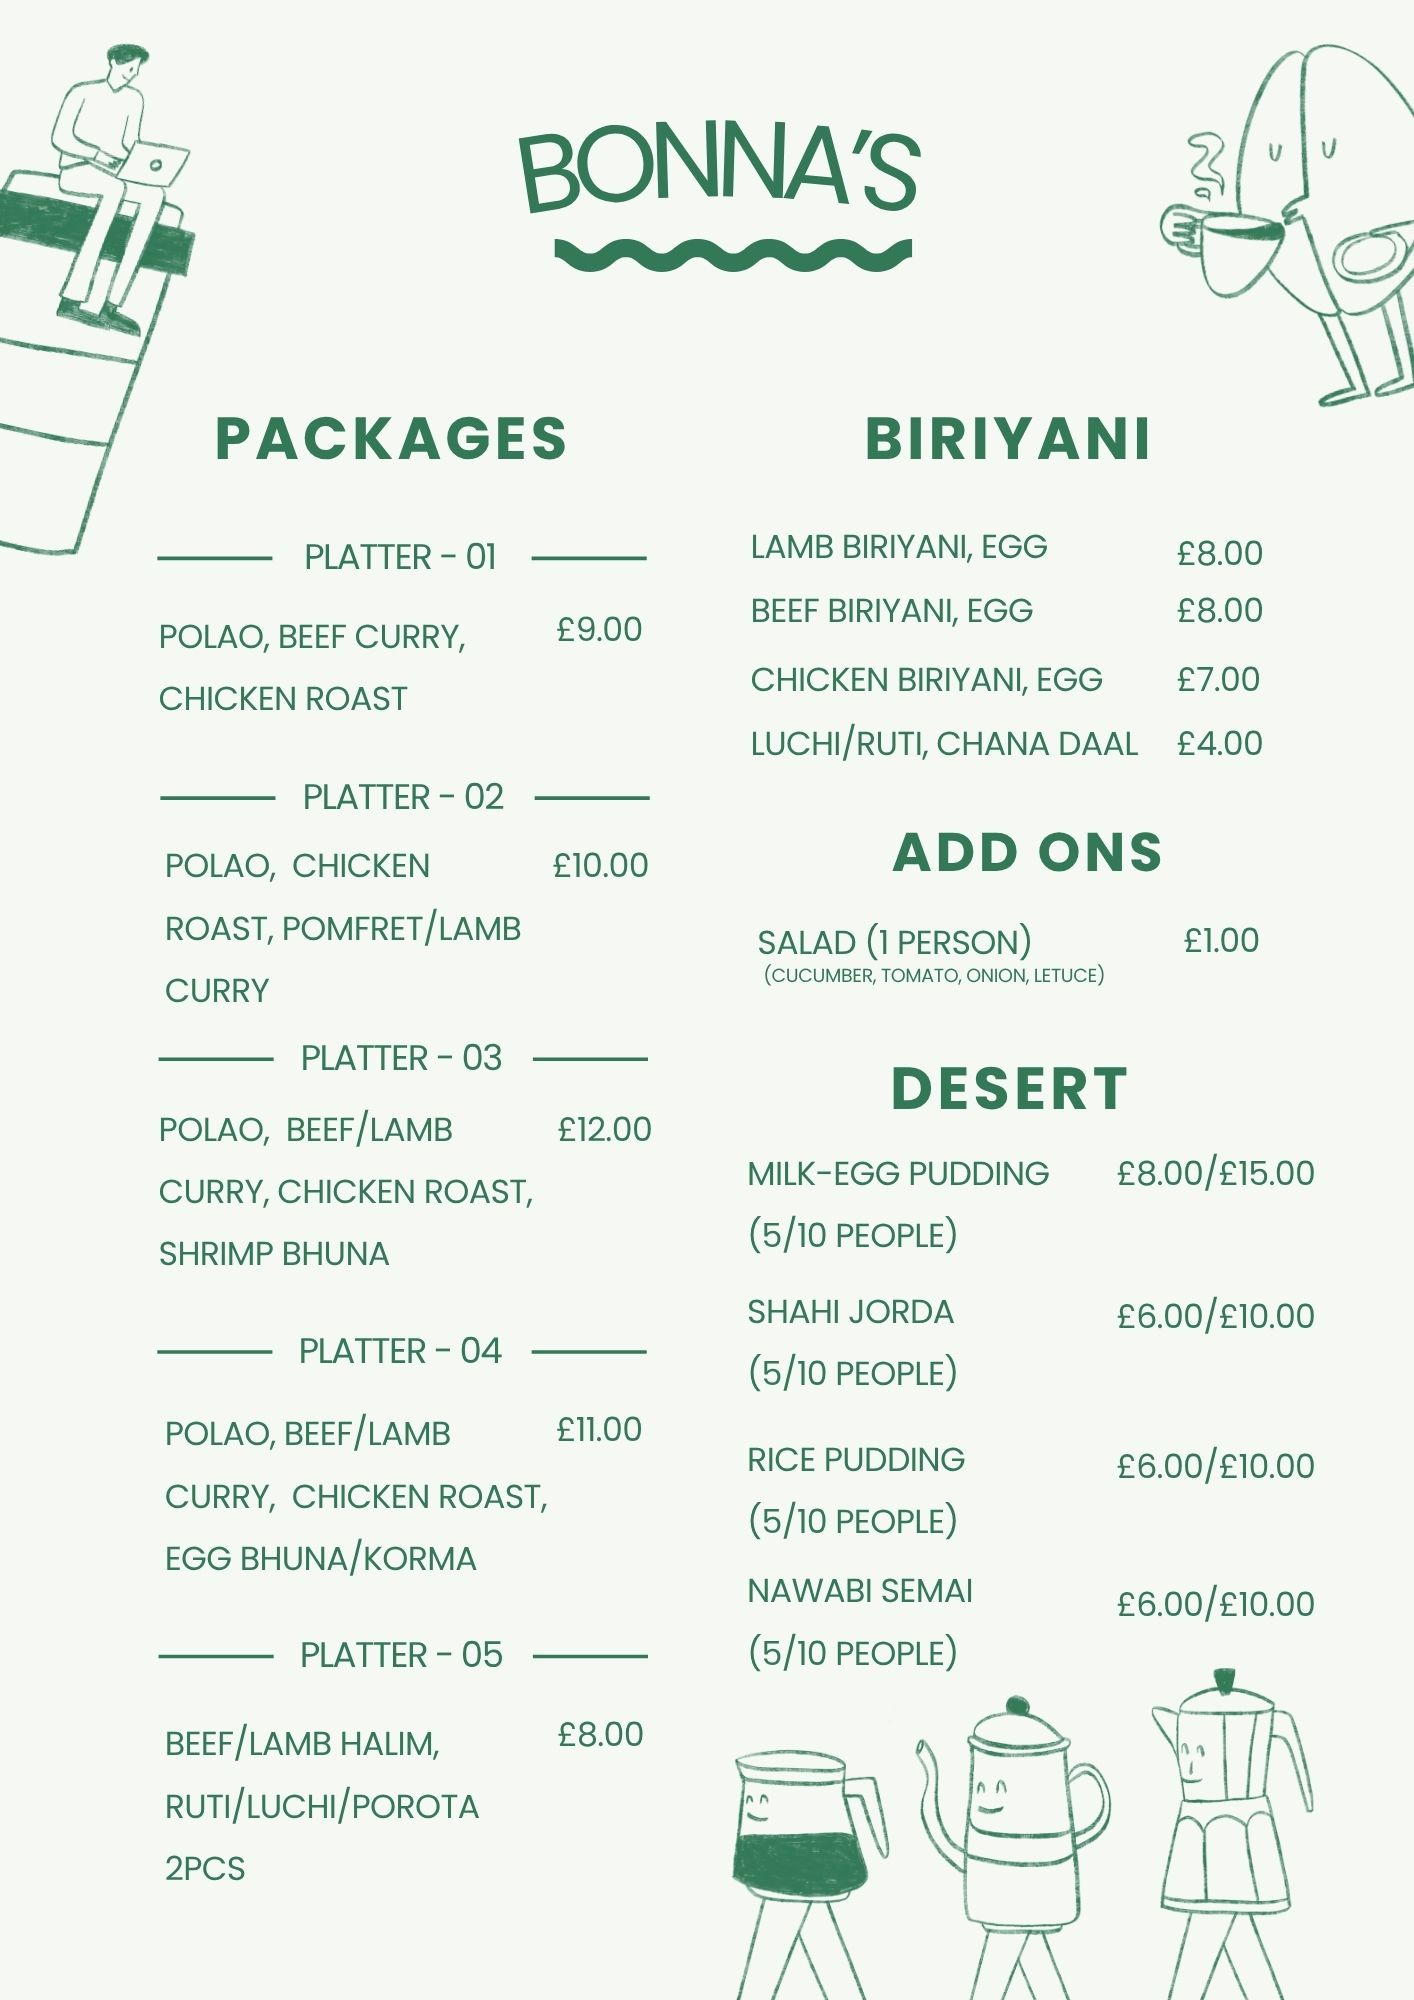
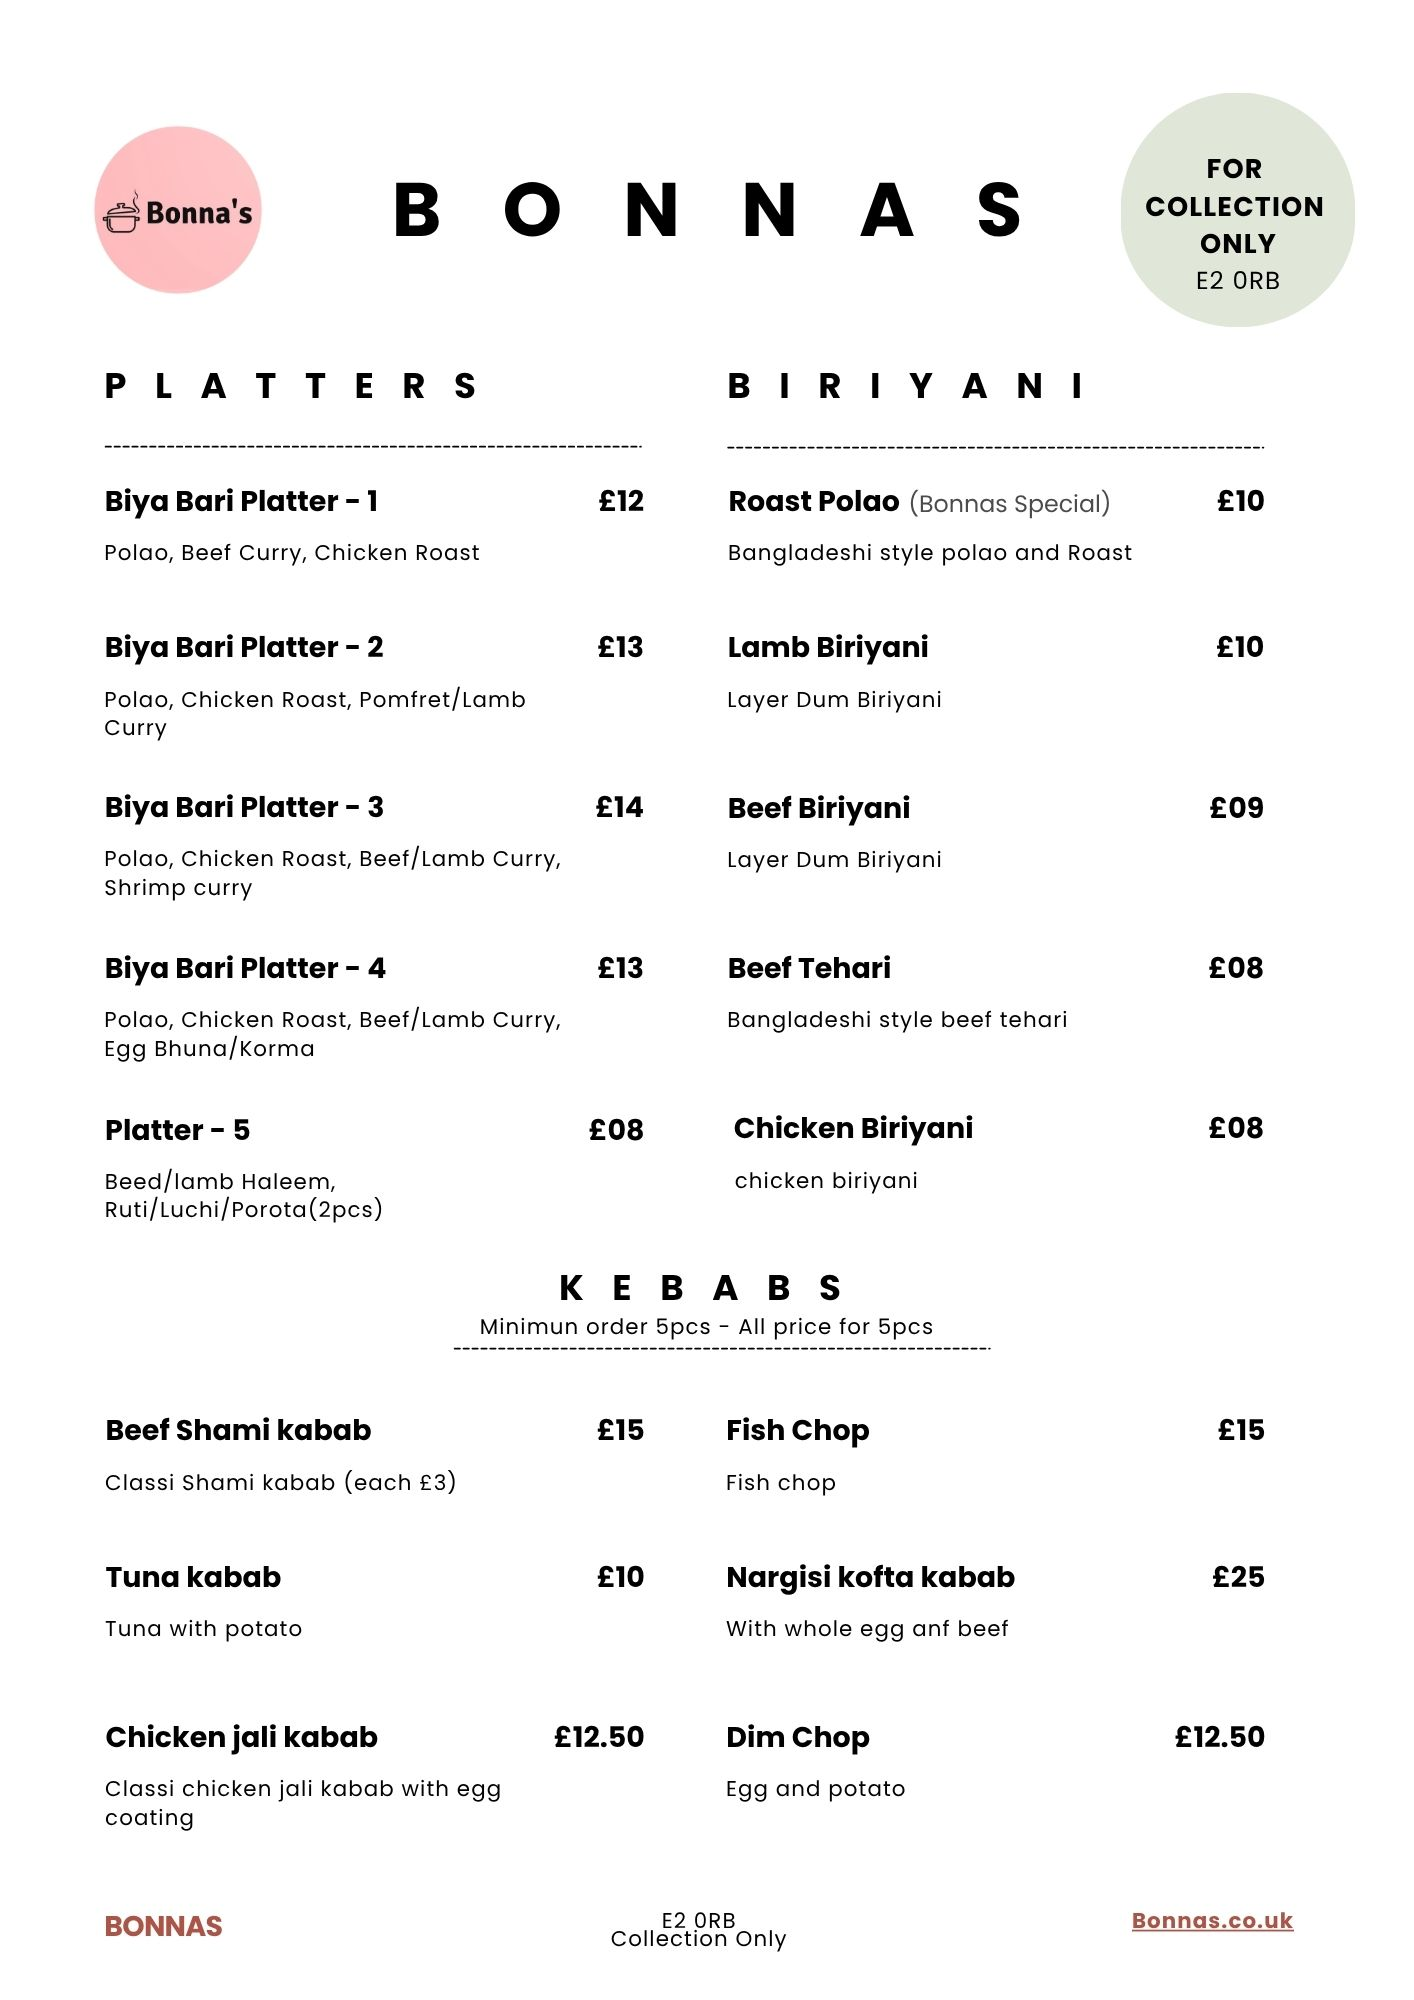
menu changed

diff --git a/src/components/menu.jsx b/src/components/menu.jsx
@@ -98,8 +98,7 @@ export default function Menu() {
 
   return (
     <section id="menu" className="py-20 px-6 md:px-20 bg-night">
-
-      {/* Header */}
+{/*
       <motion.div
         className="flex items-center justify-between mb-10 max-w-7xl mx-auto"
         variants={fadeUp}
@@ -130,7 +129,7 @@ export default function Menu() {
         </button>
       </motion.div>
 
-      {/* Category tabs */}
+   
       <div className="flex gap-2 mb-10 overflow-x-auto pb-2 max-w-7xl mx-auto">
         {CATEGORIES.map((cat) => (
           <button key={cat.value} onClick={() => setActiveCategory(cat.value)}
@@ -144,7 +143,7 @@ export default function Menu() {
         ))}
       </div>
 
-      {/* Grid */}
+
       <motion.div
         className="grid gap-5 sm:grid-cols-2 md:grid-cols-3 lg:grid-cols-4 max-w-7xl mx-auto"
         variants={staggerContainer}
@@ -157,7 +156,7 @@ export default function Menu() {
             <TiltCard
               className="bg-ember rounded-2xl overflow-hidden border border-gold-dust hover:border-pink-bonnas/50 transition-colors flex flex-col cursor-pointer h-full"
             >
-              {/* FIX: whole card is clickable — opens variant picker or adds directly */}
+
               <div
                 onClick={() => item.variants?.length > 0 ? setVariantPicker(item) : addToCart(item)}
                 className="flex flex-col flex-1"
@@ -172,7 +171,7 @@ export default function Menu() {
                         ? "£" + item.variants[0].price.toFixed(2) + " – £" + item.variants[item.variants.length - 1].price.toFixed(2)
                         : item.price ? "£" + item.price.toFixed(2) : "See options"}
                     </span>
-                    {/* Button kept for visual affordance; click is handled by the card wrapper above */}
+       
                     <span className="bg-pink-bonnas text-night text-xs px-3 py-1.5 rounded-full font-semibold pointer-events-none">
                       + Add
                     </span>
@@ -183,13 +182,13 @@ export default function Menu() {
           </motion.div>
         ))}
       </motion.div>
-
+      */}
       {/* PDF section */}
       <div className="mt-16 border-t border-gold-dust pt-12 max-w-7xl mx-auto">
         <h3 className="text-xl font-semibold text-center text-cream mb-2">Full Menu PDF</h3>
         <p className="text-center text-sand text-sm mb-8">Download our complete menu</p>
         <div className="flex flex-col md:flex-row gap-6 justify-center items-center mb-8">
-          {["/photos/menu1.jpg", "/photos/menu2.jpg"].map((img, i) => (
+          {["/photos/menu1.jpg", "/photos/menu2.jpg", "/photos/menu3.jpg"].map((img, i) => (
             <div key={i} className="border border-gold-dust rounded-xl p-2 max-w-xs w-full">
               <img src={img} alt={"Menu " + (i + 1)} className="w-full object-cover rounded-lg" />
             </div>
@@ -202,7 +201,7 @@ export default function Menu() {
         </div>
       </div>
 
-      {/* Variant picker */}
+      {/* Variant picker
       <AnimatePresence>
         {variantPicker && (
           <motion.div
@@ -243,8 +242,9 @@ export default function Menu() {
           </motion.div>
         )}
       </AnimatePresence>
+      */}
 
-      {/* Cart drawer */}
+      {/* 
       <AnimatePresence>
         {cartOpen && (
           <motion.div
@@ -253,9 +253,7 @@ export default function Menu() {
             animate={{ opacity: 1 }}
             exit={{ opacity: 0 }}
           >
-            {/* FIX: backdrop is lighter + clearly dismissible, but the real fix is
-                that the drawer no longer force-opens on every add, so this
-                backdrop is only seen when the user deliberately opens the cart. */}
+
             <div className="flex-1 bg-black/50" onClick={() => setCartOpen(false)} />
             <motion.div
               className="w-full md:max-w-sm bg-ember border-l border-gold-dust flex flex-col shadow-2xl md:h-full rounded-t-2xl md:rounded-none"
@@ -311,8 +309,7 @@ export default function Menu() {
                   <input type="tel" placeholder="Your phone number" value={customerPhone} onChange={(e) => setCustomerPhone(e.target.value)}
                     className="w-full bg-ember border border-gold-dust text-cream placeholder-sand rounded-xl px-4 py-2.5 text-sm mb-4 outline-none focus:border-pink-bonnas" />
 
-                  {/* FIX: now a real clickable button — closes the drawer so the
-                      user can go add more items from the grid */}
+ 
                   {amountToMinimum > 0 && (
                     <button
                       onClick={handleAddMoreClick}
@@ -324,8 +321,6 @@ export default function Menu() {
                     </button>
                   )}
 
-                  {/* FIX: disabled + shows sending state while request is in flight,
-                      preventing the double/triple click Telegram bug */}
                   <button
                     onClick={sendTelegram}
                     disabled={cartTotal < 20 || !customerName || !customerPhone || isSending}
@@ -350,6 +345,7 @@ export default function Menu() {
         )}
       </AnimatePresence>
       <StickyCartBar onOpenCart={() => setCartOpen(true)} />
+      */}
     </section>
   );
 }
